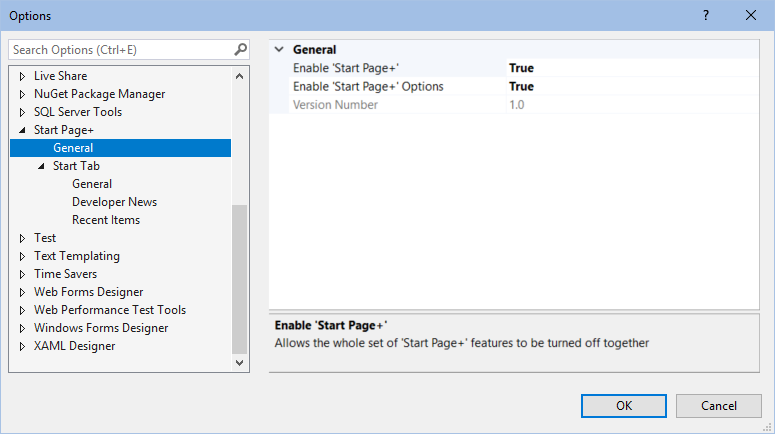
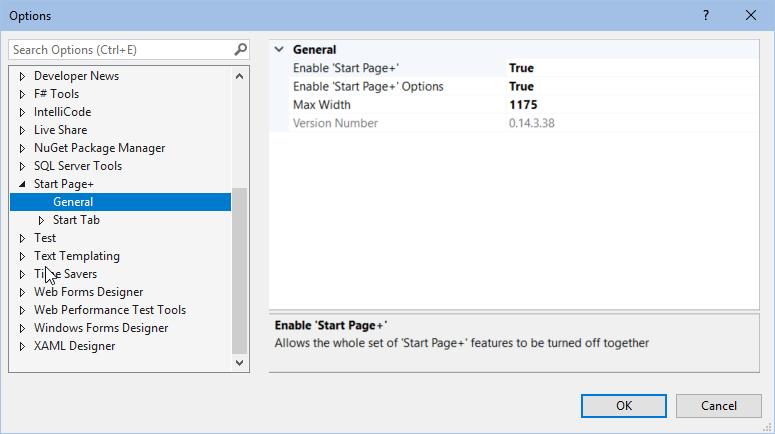
Move `MaxWidth` to `GeneralOptions`
- from `StartTabOptions`

#1274

diff --git a/src/options/Models/StartTabOptions.cs b/src/options/Models/StartTabOptions.cs
@@ -12,11 +12,6 @@ namespace StartPagePlus.Options.Models
         public const string Category = @"Start Tab\General";
 
         [Category(Settings)]
-        [DisplayName(MaxWidthDisplayName)]
-        [Description(MaxWidthDescription)]
-        public int MaxWidth { get; set; } = 1175;
-
-        [Category(Settings)]
         [DisplayName(ShowStartTabTitleDisplayName)]
         [Description(ShowStartTabTitleDescription)]
         public bool ShowStartTabTitle { get; set; } = true;

diff --git a/src/options/Models/GeneralOptions.cs b/src/options/Models/GeneralOptions.cs
@@ -23,5 +23,10 @@ namespace StartPagePlus.Options.Models
         [DisplayName(Constants.PageConstants.PackageVersion)]
         [Description("Installed '" + PackageName + "' version")]
         public string PackageVersion { get; } = Vsix.Version;
+
+        [Category(General)]
+        [DisplayName(MaxWidthDisplayName)]
+        [Description(MaxWidthDescription)]
+        public int MaxWidth { get; set; } = 1175;
     }
 }

diff --git a/src/ui/ViewModels/MainViewModel.cs b/src/ui/ViewModels/MainViewModel.cs
@@ -32,7 +32,7 @@ namespace StartPagePlus.UI.ViewModels
         public ObservableCollection<TabViewModel> Tabs { get; }
 
         public int MaxWidth
-            => StartTabOptions.Instance.MaxWidth;
+            => GeneralOptions.Instance.MaxWidth;
     }
 
 }

diff --git a/docs-source/features.md b/docs-source/features.md
@@ -195,7 +195,7 @@ When I'm working in Visual Studio, I prefer to stay in Visual Studio, and not ha
 to switch to a different application, and then back again to Visual Studio.
 
 However, for those people who prefer links to be opened in their default browser,
-there's an option to change Start Page+'s behavior to do just that.
+there's an option to change *Start Page+*'s behavior to do just that.
 
 ### Links
 
@@ -232,6 +232,12 @@ This setting lets you choose to not have the menu item added.
 
 The default value is `true`.
 
+### Max Width
+
+This setting will allow you to make the contents of the _Start Page+_ window wider or narrower
+
+The default value is `1175`.
+
 ### Version Number
 
 This setting simply displays the version number of _Start Page+_ that's currently installed.
@@ -240,21 +246,15 @@ This setting simply displays the version number of _Start Page+_ that's currentl
 
 ![Start Tab Options](assets/images/options-start-tab.png)
 
-### Max Width
-
-This setting will allow you to make the contents of the _Start Page+_ window wider or narrower
-
-The default value is `1175`.
-
 ### Show Start Tab Title
 
 This setting determines whether the *Start* tab title is displayed.
 
 The default value is `true`.
 
-### Start Tab Title
+### Start Tab Title Text
 
-This setting will allow you to change the *Start* tab title.
+This setting will allow you to change the text of the *Start* tab title.
 
 The default value is `What would you like to do today?`.
 
